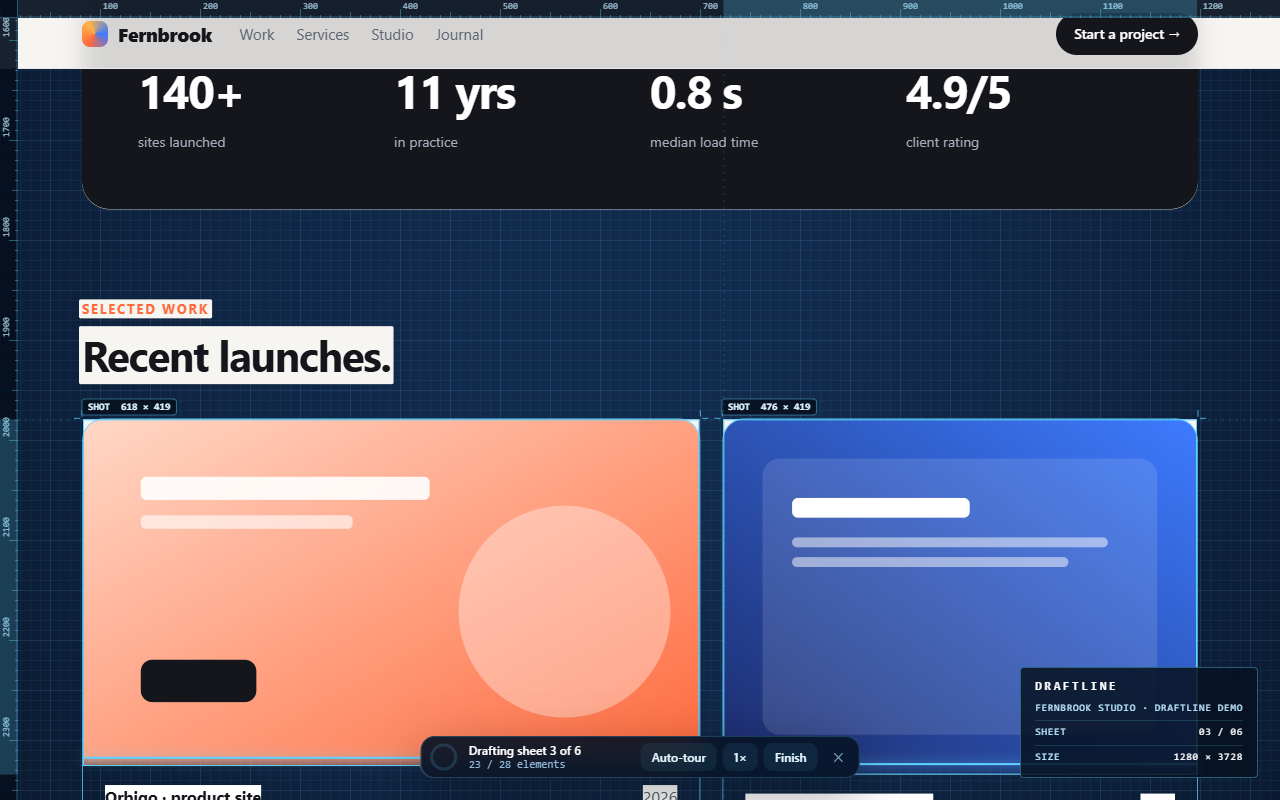
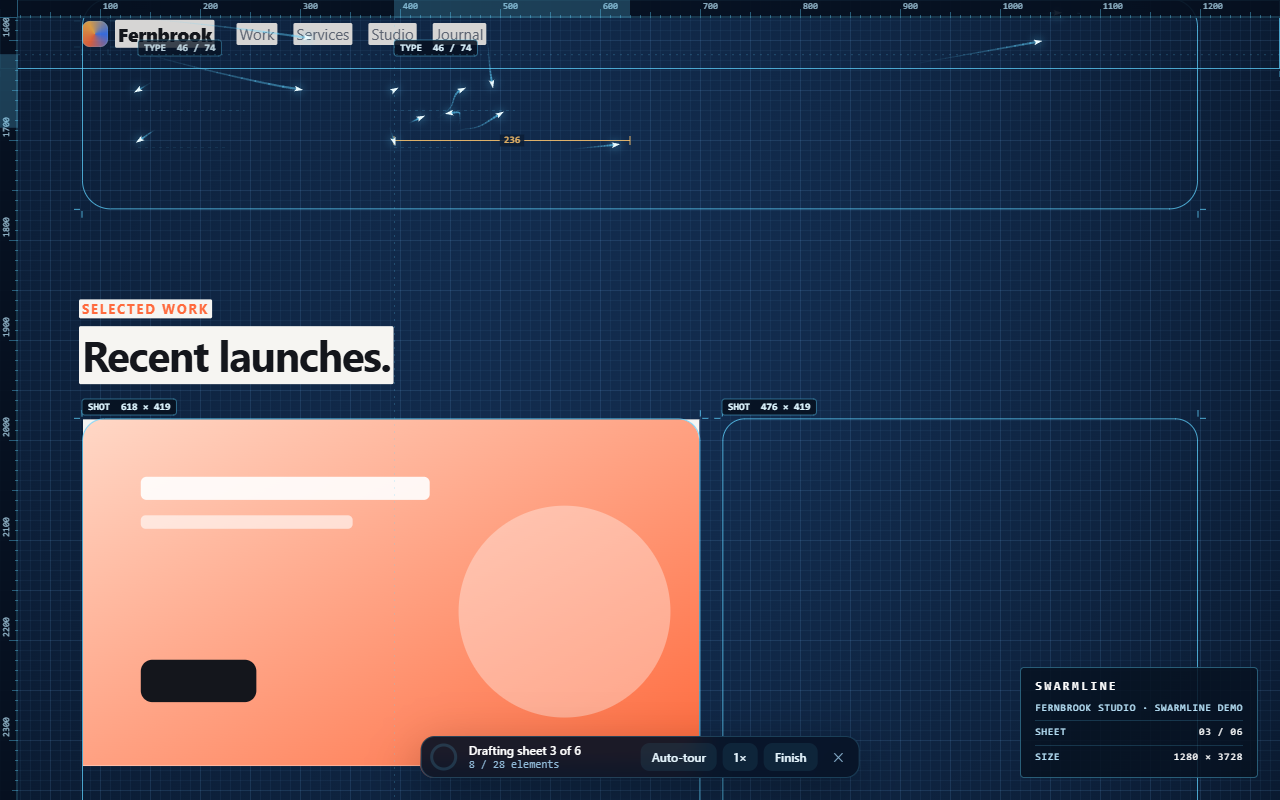
Rename to Swarmline
Name, script (swarmline.js), overlay element, HUD and title block, manifest,
listing, privacy policy, README, tests and generated graphics. Shortcut is now
Alt+Shift+L. Copy describes the drafting swarm.

diff --git a/extension/swarmline.js b/extension/swarmline.js
@@ -1,5 +1,5 @@
 /*
- * Draftline: watch any web page draw itself as a blueprint.
+ * Swarmline: watch any web page draw itself as a blueprint.
  *
  * A blueprint sheet is laid over the live page. A swarm of glowing pen-nibs
  * flies from element to element, tracing outlines and writing text lines in
@@ -13,7 +13,7 @@
 (() => {
   "use strict";
 
-  const KEY = "__draftline";
+  const KEY = "__swarmline";
   if (window[KEY]) {
     window[KEY].toggle();
     return;
@@ -40,7 +40,7 @@
 
   const SKIP = new Set([
     "script", "style", "noscript", "template", "head", "meta", "link", "title", "base", "br", "wbr",
-    "option", "optgroup", "datalist", "source", "track", "param", "area", "map", "draftline-sheet",
+    "option", "optgroup", "datalist", "source", "track", "param", "area", "map", "swarmline-sheet",
   ]);
   const MEDIA = new Set(["img", "svg", "video", "canvas", "picture", "iframe", "embed", "object"]);
   const CONTROL = new Set(["input", "textarea", "select"]);
@@ -405,22 +405,22 @@ canvas.off{pointer-events:none;display:none}
     }
 
     mount() {
-      for (const old of document.querySelectorAll("draftline-sheet")) old.remove();
-      const host = document.createElement("draftline-sheet");
+      for (const old of document.querySelectorAll("swarmline-sheet")) old.remove();
+      const host = document.createElement("swarmline-sheet");
       host.style.cssText = "all:initial !important;position:fixed !important;inset:0 !important;z-index:2147483647 !important;display:block !important;pointer-events:none !important;contain:strict !important;";
       // closed: page scripts can't reach into the overlay
       const root = host.attachShadow({ mode: "closed" });
       root.innerHTML = `<style>${STYLE}</style>
 <canvas aria-hidden="true"></canvas>
-<div class="block" aria-hidden="true"><b>DRAFTLINE</b><div class="host"></div><div class="row"><span>Sheet</span><span class="sheetn">01 / 01</span></div><div class="row"><span>Size</span><span class="size"></span></div></div>
-<div class="hud" role="toolbar" aria-label="Draftline">
+<div class="block" aria-hidden="true"><b>SWARMLINE</b><div class="host"></div><div class="row"><span>Sheet</span><span class="sheetn">01 / 01</span></div><div class="row"><span>Size</span><span class="size"></span></div></div>
+<div class="hud" role="toolbar" aria-label="Swarmline">
   <svg class="ring" viewBox="0 0 30 30" aria-hidden="true"><circle class="bg" cx="15" cy="15" r="12"/><circle class="fg" cx="15" cy="15" r="12" transform="rotate(-90 15 15)" stroke-dasharray="75.4" stroke-dashoffset="75.4"/></svg>
   <div class="meta" aria-live="polite"><span class="t">Preparing the sheet…</span><span class="s">&nbsp;</span></div>
   <button data-a="tour" aria-pressed="false" title="Glide through the page sheet by sheet (T)">Auto-tour</button>
   <button data-a="speed" title="Drafting speed" aria-label="Drafting speed 1×">1×</button>
   <button data-a="finish" title="Lift the blueprint now (F)">Finish</button>
   <button data-a="replay" class="pri" hidden title="Draw the page again">Replay</button>
-  <button data-a="close" class="x" title="Exit (Esc)" aria-label="Exit Draftline">✕</button>
+  <button data-a="close" class="x" title="Exit (Esc)" aria-label="Exit Swarmline">✕</button>
 </div>`;
       document.documentElement.appendChild(host);
       this.host = host;
@@ -625,7 +625,7 @@ canvas.off{pointer-events:none;display:none}
           this.updateHud();
         }
       } catch (err) {
-        console.error("[draftline]", err);
+        console.error("[swarmline]", err);
       }
       if (!this.dead) this.raf = requestAnimationFrame((t) => this.frame(t));
     }
@@ -1498,7 +1498,7 @@ canvas.off{pointer-events:none;display:none}
     try {
       app = new App();
     } catch (err) {
-      console.error("[draftline]", err);
+      console.error("[swarmline]", err);
       app = null;
     }
   }

diff --git a/demo/index.html b/demo/index.html
@@ -3,8 +3,8 @@
 <head>
 <meta charset="utf-8">
 <meta name="viewport" content="width=device-width, initial-scale=1">
-<title>Fernbrook Studio · Draftline demo page</title>
-<!-- A self-contained page for testing Draftline and for store screenshots.
+<title>Fernbrook Studio · Swarmline demo page</title>
+<!-- A self-contained page for testing Swarmline and for store screenshots.
      Fernbrook Studio is fictional. No external requests. -->
 <style>
   :root { --ink:#14161c; --muted:#5d6472; --line:#e7e9ee; --accent:#ff6a3d; --accent2:#3d7bff; --bg:#f6f5f2; }
@@ -154,16 +154,16 @@
 
 <footer>
   <div class="wrap">
-    <div><a class="logo" href="#" style="color:#fff"><i></i>Fernbrook</a><p style="margin-top:14px">A fictional studio, made for the Draftline demo.</p></div>
+    <div><a class="logo" href="#" style="color:#fff"><i></i>Fernbrook</a><p style="margin-top:14px">A fictional studio, made for the Swarmline demo.</p></div>
     <div><h4>Studio</h4><a href="#">About</a><a href="#">Careers</a><a href="#">Journal</a></div>
     <div><h4>Services</h4><a href="#">Design</a><a href="#">Engineering</a><a href="#">Growth</a></div>
     <div><h4>Contact</h4><a href="#">hello@example.com</a><a href="#">Book a call</a></div>
   </div>
-  <div class="fine">© 2026 Fernbrook Studio (fictional) · Demo page for Draftline</div>
+  <div class="fine">© 2026 Fernbrook Studio (fictional) · Demo page for Swarmline</div>
 </footer>
 
 <script>
-  // a live canvas, to show Draftline keeps it animating
+  // a live canvas, to show Swarmline keeps it animating
   const c = document.getElementById("waves");
   const g = c.getContext("2d");
   function tick(t) {

diff --git a/extension/background.js b/extension/background.js
@@ -1,19 +1,19 @@
-// Draftline: the toolbar button (or Alt+Shift+D) draws the current tab as a blueprint.
-// Clicking again while it runs exits; draftline.js handles that toggle itself.
+// Swarmline: the toolbar button (or Alt+Shift+L) draws the current tab as a blueprint.
+// Clicking again while it runs exits; swarmline.js handles that toggle itself.
 
-const TITLE = "Draftline (Alt+Shift+D)";
+const TITLE = "Swarmline (Alt+Shift+L)";
 
 async function draft(tab) {
   if (!tab || tab.id == null) return;
   try {
-    await chrome.scripting.executeScript({ target: { tabId: tab.id }, files: ["draftline.js"] });
+    await chrome.scripting.executeScript({ target: { tabId: tab.id }, files: ["swarmline.js"] });
   } catch (_) {
     // chrome:// pages, the Web Store and the PDF viewer can't be scripted
     const tabId = tab.id;
     await chrome.action.setBadgeBackgroundColor({ tabId, color: "#0B1D36" }).catch(() => {});
     if (chrome.action.setBadgeTextColor) await chrome.action.setBadgeTextColor({ tabId, color: "#5FD3FF" }).catch(() => {});
     await chrome.action.setBadgeText({ tabId, text: "×" }).catch(() => {});
-    await chrome.action.setTitle({ tabId, title: "Draftline can't draw this page" }).catch(() => {});
+    await chrome.action.setTitle({ tabId, title: "Swarmline can't draw this page" }).catch(() => {});
     setTimeout(() => {
       chrome.action.setBadgeText({ tabId, text: "" }).catch(() => {});
       chrome.action.setTitle({ tabId, title: TITLE }).catch(() => {});

diff --git a/README.md b/README.md
@@ -1,10 +1,10 @@
-# Draftline
+# Swarmline
 
-**Watch any web page draw itself as a blueprint.**
+**Watch a swarm draw any web page as a blueprint.**
 
-![Draftline drawing a page](store/marquee-1400x560.png)
+![Swarmline drawing a page](store/marquee-1400x560.png)
 
-Draftline is a Chrome extension. Click it on any page and a blueprint sheet with a drafting grid and rulers covers the page. Elements are then drafted in reading order: boxes are outlined with corner marks and size labels, text is written in line by line, and images scan in over wireframe placeholders. As each sheet finishes it sweeps open onto the real page underneath. With Auto-tour on, Draftline glides down the page sheet by sheet until the blueprint lifts away.
+Swarmline is a Chrome extension. Click it on any page and a blueprint sheet with a drafting grid and rulers covers the page. A swarm of glowing pen-nibs then drafts the elements in reading order: they trace each box with corner marks and size labels, write text in line by line, and scan images in over wireframe placeholders. As each sheet finishes it sweeps open onto the real page underneath. With Auto-tour on, Swarmline glides down the page sheet by sheet until the blueprint lifts away.
 
 Because it reveals the real page rather than rebuilding a copy, the result is always exactly the live site: fonts, scroll effects, GSAP and CSS animations, video, canvases and links keep working throughout.
 
@@ -12,27 +12,27 @@ Because it reveals the real page rather than rebuilding a copy, the result is al
 
 1. Open `chrome://extensions` and turn on **Developer mode**.
 2. Click **Load unpacked** and choose the [`extension/`](extension) folder.
-3. Pin Draftline from the puzzle-piece menu.
+3. Pin Swarmline from the puzzle-piece menu.
 
 ## Use
 
 | | |
 | --- | --- |
-| **Alt+Shift+D** or the toolbar button | Start (again to exit) |
+| **Alt+Shift+L** or the toolbar button | Start (again to exit) |
 | **Auto-tour** / **T** | Glide through the page sheet by sheet |
 | **1× / 2× / 3×** | Drafting speed |
 | **Finish** / **F** | Lift the blueprint now |
 | **Esc** / **✕** | Exit |
 
-You can also scroll yourself: Draftline drafts whatever comes to rest on screen. With *prefers-reduced-motion* it drafts at 3× and the tour jumps instead of gliding.
+You can also scroll yourself: Swarmline drafts whatever comes to rest on screen. With *prefers-reduced-motion* it drafts at 3× and the tour jumps instead of gliding.
 
 ## How it works
 
-[`draftline.js`](extension/draftline.js) is one dependency-free content script:
+[`swarmline.js`](extension/swarmline.js) is one dependency-free content script:
 
 1. **Sheet.** A full-screen `<canvas>` inside a closed shadow root covers the page: sheet colour, a 10/50 px drafting grid that scrolls with the page, and rulers.
 2. **Scan.** When the page comes to rest, the visible part of the DOM (including open shadow roots) is turned into *units*: boxes (anything that paints a background, border or shadow), text blocks (their actual line boxes, with split-text letters merged back into lines), media, form controls and icon-font glyphs.
-3. **Draft.** Units start in reading order, a few at a time. A child waits for its parent's outline, and a box fills only after its children are done. Each unit's progress punches an opening in the sheet (`destination-out`) shaped like that element (rounded corners, the line being written, a scan line moving down an image), and outlines, labels, cursors, guides and dimensions are drawn on top.
+3. **Draft.** Units start in reading order, a few at a time, each with a crew of one to three nibs from the swarm; work waits briefly for its nib to arrive, and the nib then rides the head of the stroke, the text cursor or the image scan line. A child waits for its parent's outline, and a box fills only after its children are done. Each unit's progress punches an opening in the sheet (`destination-out`) shaped like that element (rounded corners, the line being written, a scan line moving down an image), and outlines, labels, cursors, guides and dimensions are drawn on top.
 4. **Sweep.** When everything on screen is drafted, the rest of the screen (backgrounds, decoration, anything that isn't an element of its own) sweeps open.
 5. **Tour and finish.** Auto-tour eases to the next sheet once the page is still. At the bottom, with every sheet open, the blueprint fades away and the HUD shows a summary with **Replay**.
 
@@ -42,12 +42,12 @@ Positions are read live every frame, so sticky headers, scroll-linked animations
 
 | Path | What it is |
 | --- | --- |
-| `extension/` | The extension: `manifest.json` (MV3, `activeTab` + `scripting` only), `background.js`, `draftline.js`, `icons/` |
+| `extension/` | The extension: `manifest.json` (MV3, `activeTab` + `scripting` only), `background.js`, `swarmline.js`, `icons/` |
 | `demo/index.html` | Self-contained demo page (a fictional studio) used for testing and store screenshots |
 | `store/` | Store listing copy, icon, screenshots and promo tiles |
 | `scripts/make-assets.mjs` | Renders the icons, screenshots and promo tiles |
-| `scripts/package.mjs` | Builds `dist/draftline-<version>.zip` for the Web Store |
-| `tests/smoke.mjs` | Runs Draftline on a page with Auto-tour; frames, timings and frame rate in `tests/out/` |
+| `scripts/package.mjs` | Builds `dist/swarmline-<version>.zip` for the Web Store |
+| `tests/smoke.mjs` | Runs Swarmline on a page with Auto-tour; frames, timings and frame rate in `tests/out/` |
 | `tests/extension.mjs` | Loads the real unpacked extension and checks start, Finish, Esc and toggle |
 
 ## Development
@@ -62,13 +62,13 @@ npm test           # smoke test on the demo page
 npm run test:site  # smoke test on a heavy real site (GSAP, Lenis, marquees)
 npm run test:ext   # real extension test
 npm run assets     # icons, screenshots, promo tiles
-npm run package    # dist/draftline-<version>.zip
+npm run package    # dist/swarmline-<version>.zip
 ```
 
 ## Publishing
 
 1. `npm run assets && npm run package`.
-2. In the [Chrome Web Store Developer Dashboard](https://chrome.google.com/webstore/devconsole), create a new item and upload `dist/draftline-1.0.0.zip`.
+2. In the [Chrome Web Store Developer Dashboard](https://chrome.google.com/webstore/devconsole), create a new item and upload `dist/swarmline-1.0.0.zip`.
 3. Fill in the listing from [`store/LISTING.md`](store/LISTING.md), upload the images in `store/`, and link a public copy of [`PRIVACY.md`](PRIVACY.md) (add your contact details to it first).
 
 ## Limits

diff --git a/store/LISTING.md b/store/LISTING.md
@@ -1,13 +1,13 @@
-# Chrome Web Store listing: Draftline
+# Chrome Web Store listing: Swarmline
 
 Copy for the [Developer Dashboard](https://chrome.google.com/webstore/devconsole). Everything here matches what the extension actually does.
 
 ## Store listing tab
 
-**Name** (from the manifest): Draftline – Blueprint Page Builder
+**Name** (from the manifest): Swarmline – Blueprint Page Builder
 
 **Summary** (132 characters max, from the manifest):
-Watch any web page draw itself as a blueprint: outlined, measured and revealed, then live again.
+A swarm of glowing pen-nibs draws any web page as a blueprint: outlined, measured and revealed, then live again.
 
 **Category:** Developer Tools *(alternative: Fun)*
 
@@ -15,19 +15,19 @@ Watch any web page draw itself as a blueprint: outlined, measured and revealed, 
 
 **Description:**
 
-> Draftline turns any web page into a living blueprint, then draws it back, one element at a time.
+> Swarmline turns any web page into a living blueprint, then a swarm of glowing pen-nibs draws it back, one element at a time.
 >
-> Click the toolbar button (or press Alt+Shift+D) and the page is covered by a blueprint sheet with a drafting grid and rulers. Draftline then works through the page in reading order:
+> Click the toolbar button (or press Alt+Shift+L) and the page is covered by a blueprint sheet with a drafting grid and rulers. The swarm then works through the page in reading order, flying from element to element:
 >
-> • Boxes and cards are outlined with precise strokes, corner marks and size labels
+> • Boxes and cards are traced by the nibs, with precise strokes, corner marks and size labels
 > • Headlines and paragraphs are written in, line by line
 > • Images and video scan in over classic wireframe placeholders
 > • Dimension lines and guides follow the element being drafted
-> • Each finished sheet sweeps open to show the real page underneath
+> • Each finished sheet sweeps open, with the swarm riding the sweep line, to show the real page underneath
 >
-> Turn on Auto-tour and Draftline glides down the page sheet by sheet, centring each one before drawing it. Choose 1×, 2× or 3× speed, or press Finish to lift the blueprint at any time.
+> Turn on Auto-tour and Swarmline glides down the page sheet by sheet, centring each one before drawing it. Choose 1×, 2× or 3× speed, or press Finish to lift the blueprint at any time.
 >
-> Because Draftline reveals the real page, not a copy, everything you see at the end is the live site: its fonts, animations, video, canvases, scroll effects and links all keep working.
+> Because Swarmline reveals the real page, not a copy, everything you see at the end is the live site: its fonts, animations, video, canvases, scroll effects and links all keep working.
 >
 > Great for:
 > • Design and front-end walkthroughs, demos and screen recordings
@@ -35,9 +35,9 @@ Watch any web page draw itself as a blueprint: outlined, measured and revealed, 
 > • Teaching layout, spacing and visual hierarchy
 > • Making a launch video of your own site
 >
-> Private by design: Draftline only runs on the tab you click it on, never sends anything anywhere, and stores nothing.
+> Private by design: Swarmline only runs on the tab you click it on, never sends anything anywhere, and stores nothing.
 >
-> Shortcuts: Alt+Shift+D start · T auto-tour · F finish · Esc exit.
+> Shortcuts: Alt+Shift+L start · T auto-tour · F finish · Esc exit.
 
 **Graphics** (all in this folder):
 
@@ -48,23 +48,23 @@ Watch any web page draw itself as a blueprint: outlined, measured and revealed, 
 | Small promo tile | `promo-440x280.png` | 440×280 |
 | Marquee promo tile | `marquee-1400x560.png` | 1400×560 |
 
-The screenshots show Draftline drawing `demo/index.html`, a page for a fictional studio, so no real company's site or branding appears in the listing. Regenerate everything with `npm run assets`.
+The screenshots show Swarmline drawing `demo/index.html`, a page for a fictional studio, so no real company's site or branding appears in the listing. Regenerate everything with `npm run assets`.
 
 ## Privacy practices tab
 
 **Single purpose:**
-Draftline draws the current web page as an animated blueprint, revealing its elements one by one until the live page is shown again.
+Swarmline draws the current web page as an animated blueprint, with a swarm of pen-nibs revealing its elements one by one until the live page is shown again.
 
 **Permission justifications:**
 
-- `activeTab`: Lets Draftline run on the tab the user clicks the toolbar button on (or presses the shortcut in), and only then. Draftline has no access to any other tab or site.
-- `scripting`: Injects Draftline's bundled script (`draftline.js`) into that tab to draw the blueprint overlay and its animation.
+- `activeTab`: Lets Swarmline run on the tab the user clicks the toolbar button on (or presses the shortcut in), and only then. Swarmline has no access to any other tab or site.
+- `scripting`: Injects Swarmline's bundled script (`swarmline.js`) into that tab to draw the blueprint overlay and its animation.
 
 **Host permissions:** none.
 
 **Remote code:** No. All code is bundled in the package; nothing is downloaded or evaluated at runtime.
 
-**Data usage:** Draftline does not collect or transmit any user data. Tick none of the data-type boxes, then certify:
+**Data usage:** Swarmline does not collect or transmit any user data. Tick none of the data-type boxes, then certify:
 
 - I do not sell or transfer user data to third parties, outside of the approved use cases
 - I do not use or transfer user data for purposes that are unrelated to my item's single purpose

diff --git a/PRIVACY.md b/PRIVACY.md
@@ -1,12 +1,12 @@
-# Privacy policy: Draftline
+# Privacy policy: Swarmline
 
 _Last updated: November 5, 2026 (version 1.0.0)_
 
-Draftline is a Chrome extension that draws the current web page as an animated blueprint. It does not collect, store, sell or share any personal data.
+Swarmline is a Chrome extension in which a swarm of animated pen-nibs draws the current web page as a blueprint. It does not collect, store, sell or share any personal data.
 
-- **It only runs when you ask.** Draftline uses Chrome's `activeTab` permission, so it can access only the tab where you click its toolbar button or press its shortcut, and only at that moment. It has no access to your other tabs, your browsing history or any website you haven't started it on.
-- **Everything happens on your device.** To draw the blueprint, Draftline reads the positions and sizes of elements on the page in your browser. That information is used only for the animation, stays in that tab's memory, and is discarded when the drawing ends or you leave the page.
-- **No network requests.** Draftline doesn't contact any server, doesn't use analytics or tracking, and doesn't load remote code.
+- **It only runs when you ask.** Swarmline uses Chrome's `activeTab` permission, so it can access only the tab where you click its toolbar button or press its shortcut, and only at that moment. It has no access to your other tabs, your browsing history or any website you haven't started it on.
+- **Everything happens on your device.** To draw the blueprint, Swarmline reads the positions and sizes of elements on the page in your browser. That information is used only for the animation, stays in that tab's memory, and is discarded when the drawing ends or you leave the page.
+- **No network requests.** Swarmline doesn't contact any server, doesn't use analytics or tracking, and doesn't load remote code.
 - **No storage.** Nothing is saved to cookies, `localStorage`, `chrome.storage` or anywhere else.
 - **No accounts, no ads.**
 
@@ -14,8 +14,8 @@ Draftline is a Chrome extension that draws the current web page as an animated b
 
 | Permission | Why it's needed |
 | --- | --- |
-| `activeTab` | Run on the tab you started Draftline on, and only that tab. |
-| `scripting` | Add Draftline's bundled drawing script to that tab. |
+| `activeTab` | Run on the tab you started Swarmline on, and only that tab. |
+| `scripting` | Add Swarmline's bundled drawing script to that tab. |
 
 ## Changes
 
